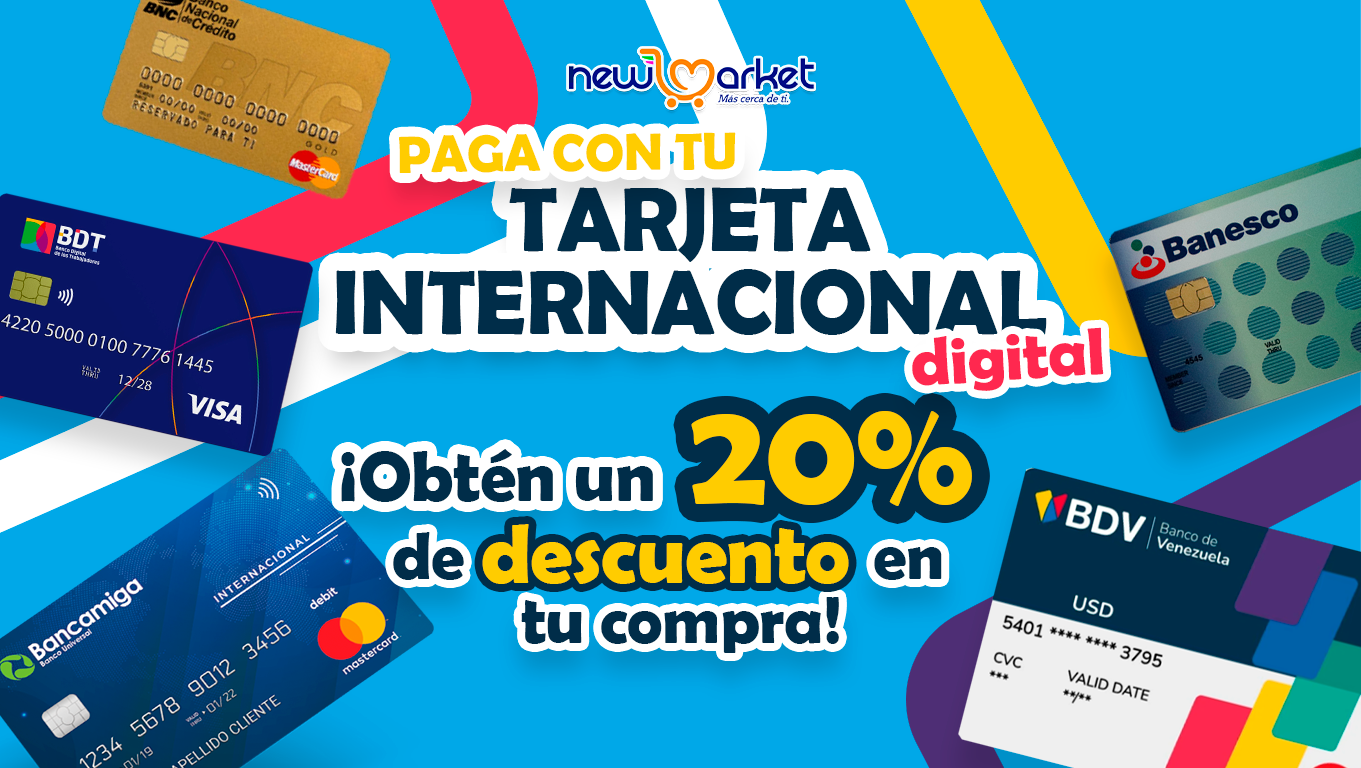
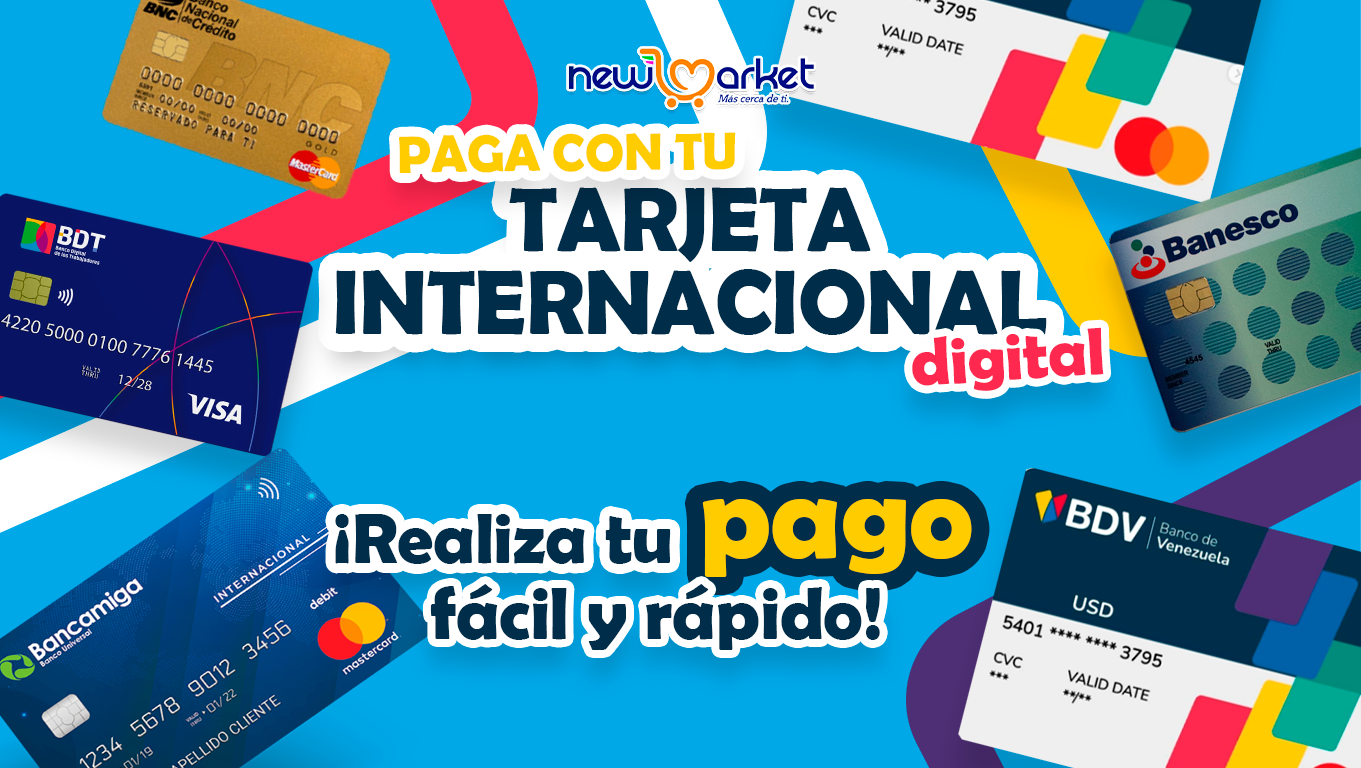
tarj

Changed region(s): [[0.216, 0.5, 0.7406, 0.875], [0.5555, 0.0, 0.9258, 0.2812]]

diff --git a/publicidades.html b/publicidades.html
@@ -43,7 +43,7 @@ function cargarData(){
     //luego avisar para actualizar a la version automatizada
 
 if (cpublicidad==1) {
-  document.getElementById("publicidades").style.backgroundImage  = "url('./publicidad/DELIVERY.png')";
+  document.getElementById("publicidades").style.backgroundImage  = "url('./publicidad/Tarj Int.png')";
   cpublicidad++;
 }else if(cpublicidad==2){
   document.getElementById("publicidades").style.backgroundImage  = "url('./publicidad/gran marques1.png')";
